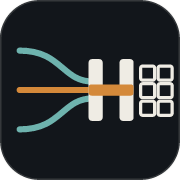
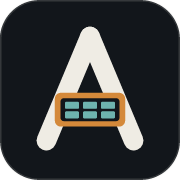
Rename catalog to AgentBuilt and mark unverifiable entries.
Rebrand Harnessed to AgentBuilt across the site name, /agentbuilt
base path, heemoe/agentbuilt repository and Pages URL, schema $id,
and copy. Leave the classification term "harness" and /harness/
routes unchanged.

Redesign the mark as a letter A crossed by a copper chip / block
grid, for systems software built by AI agents, and regenerate the
favicon, Open Graph image, and logo preview.

Keep official-blog, no-source listings such as Antigravity OS and
Fable OS in the catalog. Show an Unverified / 未验证 badge on
list cards and detail pages, and add a verification-status filter.
The same badge also covers other no-public-artifact statuses such
as KernelSeek (paper_claimed_release_not_found).

Changed region(s): [[0.0833, 0.1389, 0.9722, 0.8611]]

diff --git a/site/src/i18n/zh.ts b/site/src/i18n/zh.ts
@@ -1,7 +1,7 @@
 import type { en } from "./en";
 
 export const zh: Record<keyof typeof en, string> = {
-  metaDefaultTitle: "Harnessed — 用 AI Agent Harness 打造的系统级软件名录",
+  metaDefaultTitle: "AgentBuilt — 用 AI Agent Harness 打造的系统级软件名录",
   metaDefaultDescription:
     "开源收录主要由大模型 / Agent harness 产出的中高难度系统级项目：内核、编译器、数据库、模拟器、浏览器引擎、GPU/TPU kernel 等，并强调可验证证据。",
   navHome: "目录",
@@ -20,6 +20,7 @@ export const zh: Record<keyof typeof en, string> = {
   filterCategory: "类别",
   filterDifficulty: "难度",
   filterAll: "全部",
+  filterVerified: "验证状态",
   filterReset: "重置筛选",
   resultsCount: "{n} 个项目",
   noResults: "没有符合当前筛选条件的项目。",
@@ -56,7 +57,7 @@ export const zh: Record<keyof typeof en, string> = {
   footerContributing: "如何贡献",
   footerRepo: "GitHub",
   footerCopy: "这是一份开源名录。站点名、域名和仓库地址集中在 site.config.ts，方便改名。",
-  rssTitle: "Harnessed — 新收录项目",
+  rssTitle: "AgentBuilt — 新收录项目",
   rssDescription: "新列入名录的、由 LLM / Agent harness 产出的系统级软件。",
   aboutEvidence:
     "每条记录都链向第一方证据。我们不编造仓库、模型名称或基准数字。",

diff --git a/site/src/data/labels.ts b/site/src/data/labels.ts
@@ -39,7 +39,7 @@ const verified: Record<string, { en: string; zh: string }> = {
   author_claimed: { en: "Author claimed", zh: "作者声明" },
   commit_attribution: { en: "Commit attribution", zh: "Commit 归因" },
   paper_claimed_release_not_found: { en: "Paper release not found", zh: "论文声称发布但未找到仓库" },
-  unverified: { en: "Unverified", zh: "未核实" },
+  unverified: { en: "Unverified", zh: "未验证" },
 };
 
 const human: Record<string, { en: string; zh: string }> = {
@@ -66,6 +66,29 @@ const evidenceType: Record<string, { en: string; zh: string }> = {
   benchmark: { en: "Benchmark / dashboard", zh: "基准 / 看板" },
   official_social: { en: "Official social post", zh: "官方社交帖" },
 };
+
+
+export const unverifiedStatuses = [
+  "official_claim_no_source",
+  "paper_claimed_release_not_found",
+  "unverified",
+] as const;
+
+export function isUnverifiedStatus(id: string): boolean {
+  return (unverifiedStatuses as readonly string[]).includes(id);
+}
+
+export function verifiedBadgeLabel(id: string, locale: Locale): string {
+  if (isUnverifiedStatus(id)) return locale === "zh" ? "未验证" : "Unverified";
+  return pick(verified, id, locale);
+}
+
+export const verifiedFilterValues = [
+  "verified",
+  "author_claimed",
+  "commit_attribution",
+  "unverified",
+] as const;
 
 export const harnessOrder = [
   "claude-code",

diff --git a/site/src/i18n/en.ts b/site/src/i18n/en.ts
@@ -1,5 +1,5 @@
 export const en = {
-  metaDefaultTitle: "Harnessed — systems software built with AI agent harnesses",
+  metaDefaultTitle: "AgentBuilt — systems software built with AI agent harnesses",
   metaDefaultDescription:
     "An open catalog of mid-to-high difficulty systems projects — kernels, compilers, databases, emulators, browser engines, and accelerator kernels — primarily produced by LLM and agent harnesses, with verifiable evidence.",
   navHome: "Catalog",
@@ -18,6 +18,7 @@ export const en = {
   filterCategory: "Category",
   filterDifficulty: "Difficulty",
   filterAll: "All",
+  filterVerified: "Verification",
   filterReset: "Reset filters",
   resultsCount: "{n} projects",
   noResults: "No projects match these filters.",
@@ -54,7 +55,7 @@ export const en = {
   footerContributing: "Contributing",
   footerRepo: "GitHub",
   footerCopy: "An open catalog. Names, domains, and the repository URL live in site.config.ts so they can be changed in one place.",
-  rssTitle: "Harnessed — new catalog entries",
+  rssTitle: "AgentBuilt — new catalog entries",
   rssDescription: "Newly listed systems software produced by LLM and agent harnesses.",
   aboutEvidence:
     "Every entry links to first-party evidence. We do not invent repositories, model names, or benchmark numbers.",

diff --git a/site/src/styles/global.css b/site/src/styles/global.css
@@ -191,6 +191,7 @@ code, .mono { font-family: var(--mono); font-size: 0.92em; }
 }
 .badge.copper { color: var(--copper); border-color: rgba(212, 137, 58, 0.4); }
 .badge.teal { color: var(--teal); border-color: rgba(110, 179, 174, 0.4); }
+.badge.warn { color: #e0b070; border-color: rgba(224, 176, 112, 0.55); background: rgba(212, 137, 58, 0.12); }
 .stars { font-family: var(--mono); font-size: 0.78rem; color: var(--muted); }
 
 .detail { padding: 40px 0 80px; }

diff --git a/site/src/site.config.ts b/site/src/site.config.ts
@@ -1,8 +1,8 @@
 export const siteConfig = {
-  name: "Harnessed",
+  name: "AgentBuilt",
   origin: "https://heemoe.github.io",
-  base: "/harnessed",
-  repo: "https://github.com/heemoe/harnessed",
+  base: "/agentbuilt",
+  repo: "https://github.com/heemoe/agentbuilt",
   defaultLocale: "en" as const,
   locales: [
     { id: "en" as const, htmlLang: "en", ogLocale: "en_US", hreflang: "en", label: "English" },

diff --git a/research.md b/research.md
@@ -1,14 +1,14 @@
-# Harnessed 调研与方案（初版）
+# AgentBuilt 调研与方案（初版）
 
 > 调研日期：2026-11-12（Asia/Shanghai）。所有项目、链接与指标均来自当时可公开访问的页面、仓库或论文；未编造任何条目。GitHub star 数为同日通过 GitHub API 取得的快照，会随时间变化。
 >
-> 本仓库对应的站点原型名为 **Harnessed**（暂定），代码仓库暂定 [https://github.com/heemoe/harnessed](https://github.com/heemoe/harnessed)。站点名、域名与仓库地址集中在 `site/src/site.config.ts`，便于改名。
+> 本仓库对应的站点已定名为 **AgentBuilt**，代码仓库为 [https://github.com/heemoe/agentbuilt](https://github.com/heemoe/agentbuilt)，站点 URL 暂按 GitHub Pages `https://heemoe.github.io/agentbuilt`。站点名、域名与仓库地址集中在 `site/src/site.config.ts`。
 
 ## 1. 结论（先看这里）
 
 现有「vibe coding / AI 产物」目录几乎都在收录**已上线的消费级应用、游戏和 SaaS**，按品类或工具浏览，用营收、投票或链接存活做排序。它们很少覆盖 kernel、编译器、数据库引擎、模拟器、浏览器引擎、GPU/TPU kernel 这类中高难度系统软件，也很少把 **harness 与底层模型分开建模**，开源协作（PR 提交 + schema 校验 + 证据链接）更不是主流。
 
-**Harnessed 的定位**应明确互补，而不是再做一个 MissumAI：
+**AgentBuilt 的定位**应明确互补，而不是再做一个 MissumAI：
 
 - 收录对象：主要由 LLM / Agent harness 产出的、可公开核查的系统级或高难度项目；
 - 分类轴：harness（Claude Code、Codex、Cursor、OpenCode、Gemini CLI、Antigravity、DeepSeek Harness 等）**和**底层模型，二者分开；
@@ -87,9 +87,9 @@
 | awesome-vibe-coding | [https://github.com/awesome-vibe-coding/awesome-vibe-coding](https://github.com/awesome-vibe-coding/awesome-vibe-coding) | 收的是 **工具和资源**（Bolt、Lovable、v0 等），不是「agent 写出的项目」。 |
 | awesome-ai-built-games | [https://github.com/lappemic/awesome-ai-built-games](https://github.com/lappemic/awesome-ai-built-games) | 可玩的 AI 编写游戏，按类型分组，部分标注工具与引擎。 |
 | shipped-with-ai / vibeking.fun | [https://github.com/0xvibly/awesome-vibe-coded-apps](https://github.com/0xvibly/awesome-vibe-coded-apps) | 从 vibeking.fun API 每日生成的快照，社区 upvote，体量大、字段浅。 |
-| BitsExplorer（OpenCode） | [https://bitsexplorer.com/built-with/opencode](https://bitsexplorer.com/built-with/opencode) | 用 OpenCode 写入 commit 的 `Co-Authored-By: opencode` trailer 做证据，而不是自评徽章。这对 Harnessed 的可验证性设计有参考价值。 |
+| BitsExplorer（OpenCode） | [https://bitsexplorer.com/built-with/opencode](https://bitsexplorer.com/built-with/opencode) | 用 OpenCode 写入 commit 的 `Co-Authored-By: opencode` trailer 做证据，而不是自评徽章。这对 AgentBuilt 的可验证性设计有参考价值。 |
 
-**共同缺口**：消费级产品多、系统软件少；harness 与模型不分；开源 PR 工作流少；证据分级弱。这正是 Harnessed 要补的位置。
+**共同缺口**：消费级产品多、系统软件少；harness 与模型不分；开源 PR 工作流少；证据分级弱。这正是 AgentBuilt 要补的位置。
 
 ---
 
@@ -179,7 +179,7 @@
 | 值 | 含义 |
 | --- | --- |
 | `verified` | 官方或作者第一方声明，并且有可打开的仓库或可核对的工件（代码、kernel 文件、benchmark 说明）。 |
-| `official_claim_no_source` | 官方博客/公告描述了实验，但没有公开源码。 |
+| `official_claim_no_source` | 官方博客/公告描述了实验，但没有公开源码。前台卡片与详情页统一显示「未验证 / Unverified」徽章，并可用验证状态筛选；侧栏仍展示本分级。 |
 | `author_claimed` | 作者 README/博客有明确声明，仓库可访问，但缺少官方机构背书或独立复现。 |
 | `commit_attribution` | 除作者声明外，还有 commit trailer / Co-Authored-By 等机械证据。 |
 | `paper_claimed_release_not_found` | 论文声称会发布代码，公开仓库 URL 尚未找到。 |
@@ -220,7 +220,7 @@
 
 **不优先选 Next.js 的原因**：也能做，但对当前信息架构偏重；需要额外处理 SSG/i18n/sitemap。若未来要做账户体系或复杂交互，可以再评估迁移或在同一 monorepo 加应用。
 
-部署建议：GitHub Pages（与贡献仓库一体）或 Cloudflare Pages / Vercel（预览部署对 PR 友好）。站点 URL 与 `base` 全部来自 `site.config.ts`，默认按 GitHub Pages 形态设为 `https://heemoe.github.io/harnessed`（可改自定义域并把 `base` 设为 `/`）。
+部署建议：GitHub Pages（与贡献仓库一体）或 Cloudflare Pages / Vercel（预览部署对 PR 友好）。站点 URL 与 `base` 全部来自 `site.config.ts`，默认按 GitHub Pages 形态设为 `https://heemoe.github.io/agentbuilt`（可改自定义域并把 `base` 设为 `/`）。
 
 ---
 
@@ -256,14 +256,14 @@ npm run dev      # 开发
 npm run preview  # 预览构建结果
 ```
 
-因默认 `base` 为 `/harnessed`，本地预览路径是 `http://localhost:<port>/harnessed/` 与 `http://localhost:<port>/harnessed/zh/`。
+因默认 `base` 为 `/agentbuilt`，本地预览路径是 `http://localhost:<port>/agentbuilt/` 与 `http://localhost:<port>/agentbuilt/zh/`。
 
 ---
 
 ## 10. 需要用户拍板的决策点
 
-1. **正式名称与域名**：现暂定 Harnessed，仓库 `heemoe/harnessed`，站点 URL 暂按 GitHub Pages `https://heemoe.github.io/harnessed`。若使用自定义域，需改 `site.config.ts` 里的 `origin` 与 `base`。
-2. **是否收录「官方实验但无源码」的条目**（Antigravity OS、Fable OS）。本轮已收入并单独分级；若希望目录严格「必须有仓库」，可以把它们降为「实验案例」而不是正式项目。
+1. **正式名称与域名**：**名称已定为 AgentBuilt**，仓库 `heemoe/agentbuilt`，站点 URL 暂按 GitHub Pages `https://heemoe.github.io/agentbuilt`。若使用自定义域，需改 `site.config.ts` 里的 `origin` 与 `base`。
+2. **是否收录「官方实验但无源码」的条目**（Antigravity OS、Fable OS 等）：**已决定保留收录**。列表卡片与详情页统一显示「未验证 / Unverified」徽章；首页可按验证状态筛选（已核实工件 / 作者声明 / Commit 归因 / 未验证）。详情侧栏与对比表仍保留精确分级（如 `official_claim_no_source`）。同类无公开工件的 `paper_claimed_release_not_found`（如 KernelSeek）同样使用该徽章，并归入「未验证」筛选项。
 3. **ZeroWeb、MiniSQLite 这类「第一方声明不完整」的条目如何展示**：ZeroWeb 未写 harness/模型；MiniSQLite 官方 README 不谈 agent，声明在公司社交媒体。是否要求「仓库内必须自述」才能标 `verified`。
 4. **Stars 更新策略**：构建时拉取、每日 Action 回写，还是只保留提交时的快照。
 5. **是否接受二手证据**（BitsExplorer trailer、媒体报道）作为主要依据。本轮仅把 trailer 作为 Rabbit 的补充，不单独靠媒体收项目。
@@ -291,7 +291,7 @@ npm run preview  # 预览构建结果
 
 ## 12. 下一步计划
 
-1. 按用户决定，调整站点名/域名，以及「无源码官方实验」是否保留；
+1. 若启用自定义域，改 `site.config.ts` 的 `origin` 与 `base`；「无源码官方实验」已按决定保留并加「未验证」徽章与筛选；
 2. 给 ZeroWeb 等 `unknown` 条目继续找第一方 harness/模型说明（若作者后续补充）；
 3. 周期性复查 KernelSeek 是否公开仓库；
 4. 增加 CI：schema 校验、链接检查、可选 stars 刷新；

diff --git a/README.md b/README.md
@@ -1,12 +1,12 @@
-# Harnessed
+# AgentBuilt
 
 A catalog of systems software built with AI agent harnesses — compilers, kernels, operating systems, databases, emulators, browser engines, and GPU/TPU kernels — with an emphasis on verifiable evidence and open contribution.
 
 The site name, domain, and repository URL are centralized in [`site/src/site.config.ts`](site/src/site.config.ts). They are provisional:
 
-- Name: **Harnessed**
-- Repo: [https://github.com/heemoe/harnessed](https://github.com/heemoe/harnessed)
-- Default site URL: `https://heemoe.github.io/harnessed`
+- Name: **AgentBuilt**
+- Repo: [https://github.com/heemoe/agentbuilt](https://github.com/heemoe/agentbuilt)
+- Default site URL: `https://heemoe.github.io/agentbuilt`
 
 ## Documents
 
@@ -32,6 +32,6 @@ npm run preview     # serve the build
 npm run check:data  # validate the YAML catalog
 ```
 
-Because the configured `base` is `/harnessed`, local pages live under `http://localhost:4321/harnessed/` and `http://localhost:4321/harnessed/zh/`.
+Because the configured `base` is `/agentbuilt`, local pages live under `http://localhost:4321/agentbuilt/` and `http://localhost:4321/agentbuilt/zh/`.
 
 English is the default locale (no prefix). Simplified Chinese lives under `/zh/`.

diff --git a/CONTRIBUTING.md b/CONTRIBUTING.md
@@ -1,6 +1,6 @@
-# Contributing to Harnessed
+# Contributing to AgentBuilt
 
-Harnessed is a catalog of **systems software** (kernels, compilers, databases, emulators, browser engines, GPU/TPU kernels, and similar work) that was **primarily produced by an LLM or agent harness**. We care more about verifiable evidence than about hype.
+AgentBuilt is a catalog of **systems software** (kernels, compilers, databases, emulators, browser engines, GPU/TPU kernels, and similar work) that was **primarily produced by an LLM or agent harness**. We care more about verifiable evidence than about hype.
 
 English is the default language of the project. 简体中文译文欢迎补充，但不是合并的前提。
 
